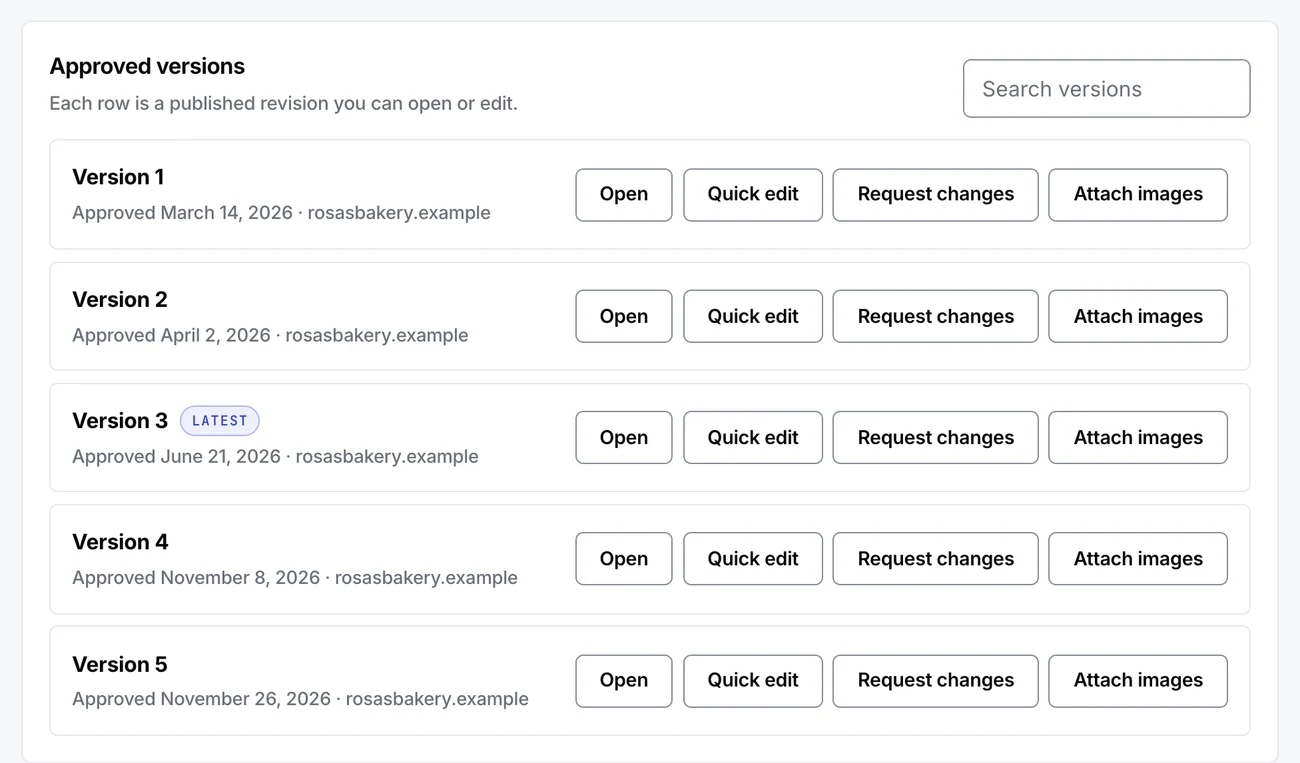
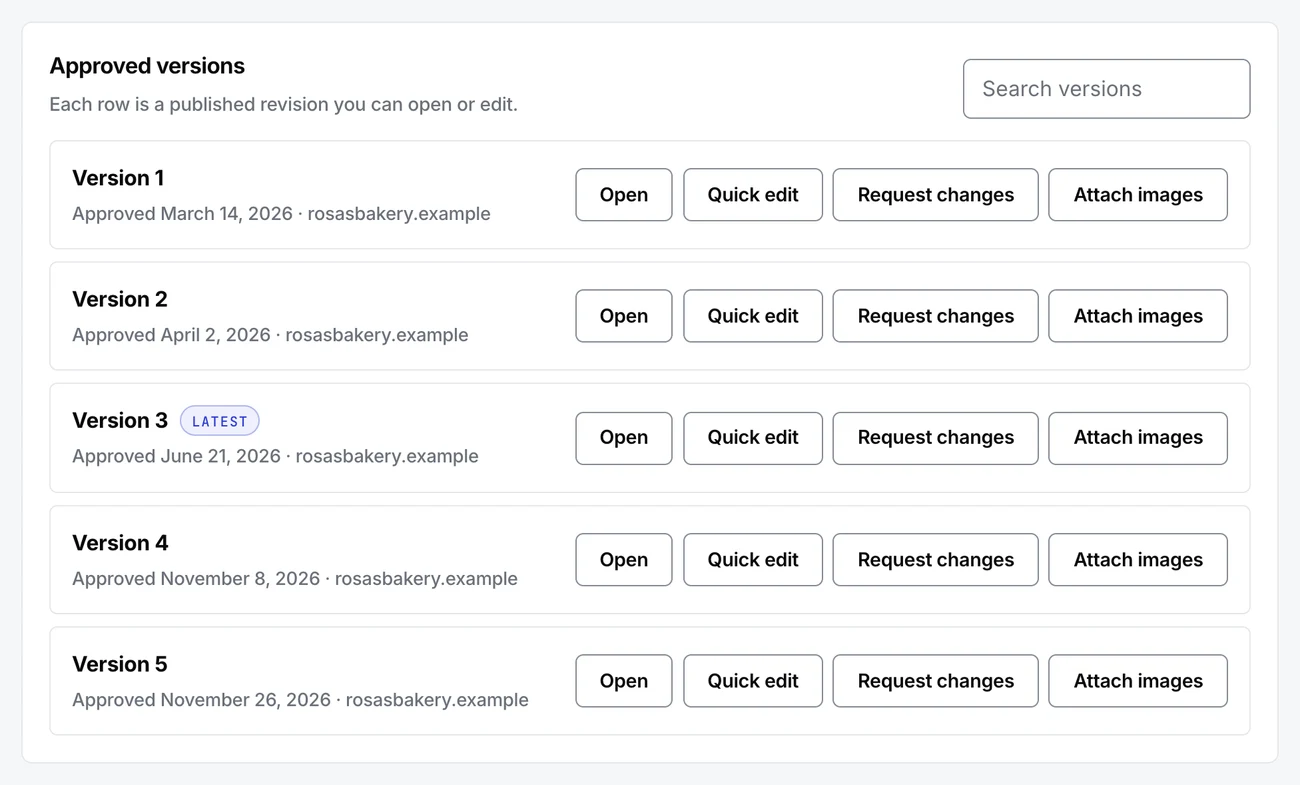
Demo: track rebased portal
client/light-reskin was rebased onto development; the re-skin is now
eec3c79 (154e61f is gone). portal-sync.json re-pinned to it, and the /demo
sandbox rebuilt for the one client-facing change the rebase brought in.

- ThemeColorsPanel (93607c9) on My website, where RealSiteTab renders it:
  after hosting, before Approved versions. Markup, copy and styles from
  ThemeColorsPanel.jsx and client/src/index.css at eec3c79; COLOR_ROLES,
  isValidHex and normalizeHex ported from siteOnboarding.js. Fields
  normalise as you type, an invalid hex disables Save, Save goes Saving… →
  Saved, Reset demo restores it.
- Saving recolours that version's preview in the sandbox, through the same
  per-version override path earlier versions already use. public/bakery.html
  gains --card and --muted so all seven roles map onto it; a full-page pixel
  diff of the bakery mock before and after is identical (0 bytes differ).
- "What's different" on /demo: the "lacks theme colours" sentence is gone;
  a new item says theme colours only change the demo's preview, and that the
  real panel appears only for sites with a theme file. "The look is one
  release ahead" stays — eec3c79 is still unmerged.
- demo.js: init moved to the end of the module. It ran at the top, and the
  first module-level constant read during boot (COLOR_ROLES) was in its
  temporal dead zone, so the sandbox didn't start at all.
- tools/portal-shots.mjs mocks /theme with the same palette, so the capture
[…]

diff --git a/src/scripts/demo.js b/src/scripts/demo.js
@@ -14,8 +14,6 @@
  *   backend/src/siteRevisionPreview.js → the picker script injected into the preview
  */
 
-const root = document.querySelector('[data-sandbox]');
-if (root) init(root);
 
 // ── Seed data ──────────────────────────────────────────────────────────────
 // Shapes mirror what /api/client/sites returns in the real app.
@@ -69,11 +67,72 @@ function seed() {
       { id: 's3', label: 'Menu photo', assetId: null },
     ],
 
+    /**
+     * Theme colors for the latest approved version — ThemeColorsPanel. The
+     * starting values are the sample bakery page's own palette, so the seven
+     * fields describe the site you see. `applied` is what Save last stored;
+     * until then the preview is untouched.
+     */
+    theme: {
+      versionNumber: 3,
+      colors: {
+        background: '#FBF5EC', surface: '#FFFFFF', text: '#3A2A20', muted: '#8A7565',
+        primary: '#C0633A', accent: '#D99A52', border: '#E7DCCB',
+      },
+      applied: null,
+      saved: false,
+    },
+
     // Change requests sent during this demo session.
     sent: [],
     // The workspace, when it's open.
     revising: null,
   };
+}
+
+// ── Ported from client/src/siteOnboarding.js ───────────────────────────────
+
+const COLOR_ROLES = [
+  { key: 'background', label: 'Page background', example: '#FAF6F0' },
+  { key: 'surface', label: 'Cards / panels', example: '#FFFFFF' },
+  { key: 'text', label: 'Main text', example: '#1F1A16' },
+  { key: 'muted', label: 'Secondary text', example: '#6F675F' },
+  { key: 'primary', label: 'Primary / buttons', example: '#C45C26' },
+  { key: 'accent', label: 'Accent / highlights', example: '#E8B86D' },
+  { key: 'border', label: 'Lines / borders', example: '#E4D9CC' },
+];
+
+const HEX_RE = /^#([0-9A-Fa-f]{6})$/;
+
+function isValidHex(value) {
+  return HEX_RE.test(String(value || '').trim());
+}
+
+function normalizeHex(value) {
+  let s = String(value || '').trim();
+  if (!s) return '';
+  if (s[0] !== '#') s = `#${s}`;
+  if (/^#[0-9A-Fa-f]{3}$/.test(s)) {
+    s = `#${s[1]}${s[1]}${s[2]}${s[2]}${s[3]}${s[3]}`;
+  }
+  return isValidHex(s) ? s.toUpperCase() : s;
+}
+
+/**
+ * The sample bakery page's CSS variables for a saved palette. A generated
+ * site reads theme.js; the bakery page is hand-built, so its variables are
+ * mapped role for role. Its button hover colour is not one of the seven, so
+ * it is derived from the primary the way a darker shade would be.
+ */
+function themeCss(c) {
+  const darker = (hex) => {
+    const n = parseInt(hex.slice(1), 16);
+    const f = (v) => Math.round(v * 0.8).toString(16).padStart(2, '0');
+    return `#${f(n >> 16)}${f((n >> 8) & 255)}${f(n & 255)}`;
+  };
+  return `:root{--cream:${c.background}!important;--card:${c.surface}!important;` +
+    `--ink:${c.text}!important;--muted:${c.muted}!important;--terra:${c.primary}!important;` +
+    `--terra-d:${darker(c.primary)}!important;--gold:${c.accent}!important;--line:${c.border}!important}`;
 }
 
 // ── Ported from client/src/clientRevision.js ───────────────────────────────
@@ -313,6 +372,9 @@ function init(root) {
     send: $('[data-send]'),
     log: $('[data-log]'),
     logItems: $('[data-log-items]'),
+    themeFields: $('[data-theme-fields]'),
+    themeSave: $('[data-theme-save]'),
+    themeSaved: $('[data-theme-saved]'),
   };
 
   const fmtDate = (iso) =>
@@ -745,6 +807,47 @@ function init(root) {
     });
   }
 
+  /** ThemeColorsPanel: a picker and a hex field per role, one Save. */
+  function renderTheme() {
+    el.themeFields.innerHTML = '';
+    COLOR_ROLES.forEach((role) => {
+      const label = document.createElement('label');
+      label.className = 'client-onboarding-color-field';
+      label.innerHTML = `
+        <span class="client-onboarding-color-field__label"></span>
+        <span class="client-onboarding-color-field__row">
+          <input type="color" />
+          <input type="text" spellcheck="false" />
+        </span>`;
+      label.querySelector('.client-onboarding-color-field__label').textContent = role.label;
+      const [picker, text] = label.querySelectorAll('input');
+      picker.setAttribute('aria-label', `${role.label} color picker`);
+      picker.dataset.themeRole = role.key;
+      text.dataset.themeRole = role.key;
+      el.themeFields.appendChild(label);
+    });
+    syncTheme();
+    el.themeSave.textContent = 'Save colors';
+    el.themeSaved.hidden = !state.theme.saved;
+  }
+
+  /** Push state into the fields without rebuilding them, so typing keeps
+      focus. Every field, the one being typed in included: the real inputs are
+      controlled, so they show the normalised value as you type. */
+  function syncTheme() {
+    const { colors } = state.theme;
+    el.themeFields.querySelectorAll('input').forEach((input) => {
+      const value = colors[input.dataset.themeRole] || '';
+      const role = COLOR_ROLES.find((r) => r.key === input.dataset.themeRole);
+      if (input.type === 'color') input.value = (isValidHex(value) ? value : role.example).toLowerCase();
+      else {
+        input.value = value;
+        input.setAttribute('aria-invalid', String(value.length > 0 && !isValidHex(value)));
+      }
+    });
+    el.themeSave.disabled = COLOR_ROLES.some((r) => !isValidHex(colors[r.key] || ''));
+  }
+
   function renderLog() {
     el.log.hidden = state.sent.length === 0;
     el.logItems.innerHTML = '';
@@ -878,6 +981,13 @@ function init(root) {
       if (tweak) {
         const s = doc.createElement('style');
         s.textContent = tweak;
+        doc.head.appendChild(s);
+      }
+
+      // Colors saved from the Theme colors panel, for the version they belong to.
+      if (state.theme.applied && versionNumber === state.theme.versionNumber) {
+        const s = doc.createElement('style');
+        s.textContent = themeCss(state.theme.applied);
         doc.head.appendChild(s);
       }
 
@@ -1198,9 +1308,41 @@ function init(root) {
       renderPending();
       renderHosting();
       renderAssets();
+      renderTheme();
       renderLog();
       return;
     }
+
+    // Save colors. Like photo saves, it always succeeds here — there is no
+    // theme.js behind the demo — so the round trip is mimicked and the
+    // palette is applied to this version's preview.
+    if (t.hasAttribute('data-theme-save')) {
+      const next = {};
+      COLOR_ROLES.forEach((r) => { next[r.key] = normalizeHex(state.theme.colors[r.key]); });
+      el.themeSave.disabled = true;
+      el.themeSaved.hidden = true;
+      el.themeSave.textContent = 'Saving…';
+      setTimeout(() => {
+        state.theme.colors = next;
+        state.theme.applied = { ...next };
+        state.theme.saved = true;
+        renderTheme();
+        if (state.revising?.versionNumber === state.theme.versionNumber) {
+          loadPreview(state.revising.versionNumber);
+        }
+      }, 450);
+      return;
+    }
+  });
+
+  // Typing or picking a color: normalise as the real panel does, clear Saved.
+  el.themeFields.addEventListener('input', (e) => {
+    const input = e.target.closest('input[data-theme-role]');
+    if (!input) return;
+    state.theme.colors[input.dataset.themeRole] = normalizeHex(input.value);
+    state.theme.saved = false;
+    el.themeSaved.hidden = true;
+    syncTheme();
   });
 
   el.overall.addEventListener('input', () => {
@@ -1259,5 +1401,13 @@ function init(root) {
   renderPending();
   renderHosting();
   renderAssets();
+  renderTheme();
   renderLog();
 }
+
+// Started last, not at the top: init renders immediately, and the module-level
+// constants above (COLOR_ROLES among them) are not initialised until the whole
+// module has run. Called from the top, renderTheme hit them in their temporal
+// dead zone and the sandbox never booted.
+const root = document.querySelector('[data-sandbox]');
+if (root) init(root);

diff --git a/public/bakery.html b/public/bakery.html
@@ -6,7 +6,7 @@
 <link rel="preconnect" href="https://fonts.googleapis.com"><link rel="preconnect" href="https://fonts.gstatic.com" crossorigin>
 <link href="https://fonts.googleapis.com/css2?family=Playfair+Display:wght@500;600;700;800&family=Inter:wght@400;500;600&display=swap" rel="stylesheet">
 <style>
-  :root{--cream:#fbf5ec;--ink:#3a2a20;--terra:#c0633a;--terra-d:#9c4a26;--gold:#d99a52;--line:#e7dccb}
+  :root{--cream:#fbf5ec;--card:#fff;--ink:#3a2a20;--muted:#8a7565;--terra:#c0633a;--terra-d:#9c4a26;--gold:#d99a52;--line:#e7dccb}
   *{box-sizing:border-box;margin:0;padding:0}
   html{scroll-behavior:smooth}
   body{background:var(--cream);color:var(--ink);font-family:'Inter',sans-serif;line-height:1.7}
@@ -33,16 +33,16 @@
   .hero p{font-size:19px;margin:24px 0 32px;max-width:46ch;color:#6b5546}
   .hero-img{position:relative}
   .hero-img img{border-radius:18px 18px 120px 18px;height:520px;width:100%;object-fit:cover;box-shadow:0 30px 60px rgba(120,70,40,.22)}
-  .badge{position:absolute;left:-26px;bottom:40px;background:#fff;border-radius:16px;padding:18px 22px;box-shadow:0 16px 36px rgba(120,70,40,.18);text-align:center}
+  .badge{position:absolute;left:-26px;bottom:40px;background:var(--card);border-radius:16px;padding:18px 22px;box-shadow:0 16px 36px rgba(120,70,40,.18);text-align:center}
   .badge b{font-family:'Playfair Display';font-size:30px;display:block;color:var(--terra-d)}
-  .badge span{font-size:13px;color:#8a7565}
+  .badge span{font-size:13px;color:var(--muted)}
   .strip{background:var(--terra-d);color:#fbe7d6;text-align:center;padding:16px;font-family:'Playfair Display';font-style:italic;font-size:20px}
   section{padding:90px 0}
   .sec-head{text-align:center;max-width:640px;margin:0 auto 56px}
   .sec-head h2{font-size:clamp(30px,5vw,46px);font-weight:700}
-  .sec-head p{color:#8a7565;font-size:17px;margin-top:14px}
+  .sec-head p{color:var(--muted);font-size:17px;margin-top:14px}
   .menu{display:grid;grid-template-columns:repeat(3,1fr);gap:30px}
-  .item{background:#fff;border-radius:18px;overflow:hidden;box-shadow:0 10px 30px rgba(120,70,40,.08);transition:.3s}
+  .item{background:var(--card);border-radius:18px;overflow:hidden;box-shadow:0 10px 30px rgba(120,70,40,.08);transition:.3s}
   .item:hover{transform:translateY(-6px);box-shadow:0 22px 44px rgba(120,70,40,.16)}
   .item .ph{height:210px;overflow:hidden}
   .item .ph img{height:100%;width:100%;object-fit:cover;transition:.5s}
@@ -50,8 +50,8 @@
   .item .body{padding:22px 24px}
   .item h3{font-size:22px;display:flex;justify-content:space-between;align-items:baseline}
   .item h3 .pr{font-family:'Inter';font-size:16px;color:var(--terra)}
-  .item p{color:#8a7565;font-size:14.5px;margin-top:6px}
-  .visit{display:grid;grid-template-columns:1fr 1fr;gap:50px;align-items:center;background:#fff;border-radius:24px;padding:50px;box-shadow:0 16px 40px rgba(120,70,40,.1)}
+  .item p{color:var(--muted);font-size:14.5px;margin-top:6px}
+  .visit{display:grid;grid-template-columns:1fr 1fr;gap:50px;align-items:center;background:var(--card);border-radius:24px;padding:50px;box-shadow:0 16px 40px rgba(120,70,40,.1)}
   .visit img{border-radius:16px;height:360px;width:100%;object-fit:cover}
   .visit h2{font-size:40px;font-weight:700;margin-bottom:18px}
   .hours{list-style:none;margin:22px 0}
@@ -105,7 +105,7 @@
     <img src="https://loremflickr.com/700/600/bakery,cafe,interior?lock=31" alt="Inside the bakery">
     <div>
       <h2>Come say good morning</h2>
-      <p style="color:#8a7565">Pull up a stool, grab a coffee, and watch the bakers do their thing. We're on the corner, and we'd love to see you.</p>
+      <p style="color:var(--muted)">Pull up a stool, grab a coffee, and watch the bakers do their thing. We're on the corner, and we'd love to see you.</p>
       <ul class="hours">
         <li><span>Mon – Fri</span><b>6:00am – 5:00pm</b></li>
         <li><span>Saturday</span><b>7:00am – 4:00pm</b></li>
